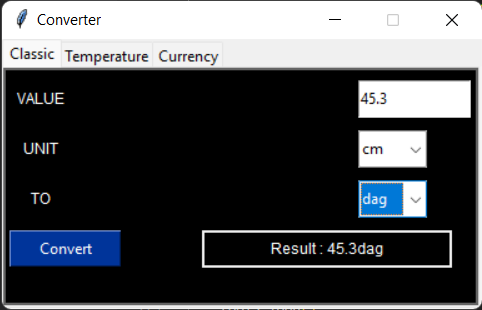
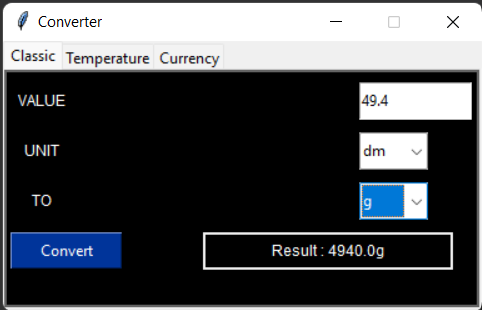
added Switch button

diff --git a/display.py b/display.py
@@ -43,8 +43,8 @@ class Tools:
         entry.pack()
         return entry
 
-    def add_button(self, master, text, command, **args):
-        button = Button(master, text=text, command=command, **args)
+    def add_button(self, master, **args):
+        button = Button(master, **args)
         button.pack()
         return button
 
@@ -78,7 +78,7 @@ class Tools:
     def loop(self):
         self.root.mainloop()
 
-    def validate(self, event, regex, text):
+    def validate(self, regex, text):
         if not re.match(regex, text):
             messagebox.showerror('Error', f'Text "{text}" does not match expected input')
         else:
@@ -94,6 +94,12 @@ class Tools:
     def save_result(self, converter, values):
         self.result = converter.convert(values)
         print(f'{self.result}')
+
+def switch_selected_values(c1, c2):
+    if c1.get() != '' and c2.get() != '':
+        temp = c1.get()
+        c1.set(c2.get())
+        c2.set(temp)
 
 def fill_canvas(tools, canvas, converter, values):
     valueInput = tools.add_stringvar()
@@ -114,12 +120,13 @@ def fill_canvas(tools, canvas, converter, values):
     comboboxClassicOutput = tools.add_combobox(canvas, unit)
     tools.change_state(comboboxClassicInput, 'readonly')
     tools.change_state(comboboxClassicOutput, 'readonly')
-    buttonConvert = tools.add_button(canvas, 'Convert',
-        lambda : (tools.saveInputs(float(valueInput.get()), comboboxClassicInput.get(), comboboxClassicOutput.get()), 
+    buttonConvert = tools.add_button(canvas, text='Convert',
+        command=lambda : (tools.saveInputs(float(valueInput.get()), comboboxClassicInput.get(), comboboxClassicOutput.get()), 
         tools.save_result(converter, tools.save), text.set(f"Result : {tools.result}")), justify='center',
         background='#00349A', foreground='white')
+    buttonSwitch = tools.add_button(canvas, text='Switch', command=lambda: switch_selected_values(comboboxClassicInput, comboboxClassicOutput), background='#009000', foreground='white')
     
-    tools.bind(entryInput, '<<end_input>>', lambda event: tools.validate(event, '^[+-]?(\d*[.])?\d+$', valueInput.get()))
+    tools.bind(entryInput, '<<end_input>>', lambda event: tools.validate('^[+-]?(\d*[.])?\d+$', valueInput.get()))
     tools.bind(entryInput, '<FocusIn>', lambda event: entryInput.delete(0, END))
     tools.bind(comboboxClassicInput, "<<ComboboxSelected>>", lambda event: print(f"\"{comboboxClassicInput.get()}\" selected !"))
     tools.bind(comboboxClassicOutput, "<<ComboboxSelected>>", lambda event: print(f"\"{comboboxClassicOutput.get()}\" selected !"))
@@ -141,7 +148,8 @@ def fill_canvas(tools, canvas, converter, values):
         '4': (label3, 5, 90, 50, 30),
         '5': (comboboxClassicOutput, tools.dimensions[0] - x_offset * 2, 90, 55, 30),
         '6': (result, tools.dimensions[0] - x_offset * 4.5, 130, 200, 30),
-        '7': (buttonConvert, 5, 130, 90, 30)
+        '7': (buttonConvert, 5, 130, 90, 30),
+        '8': (buttonSwitch, 100, 130, 55, 30)
     }
     tools.place(items)
 
